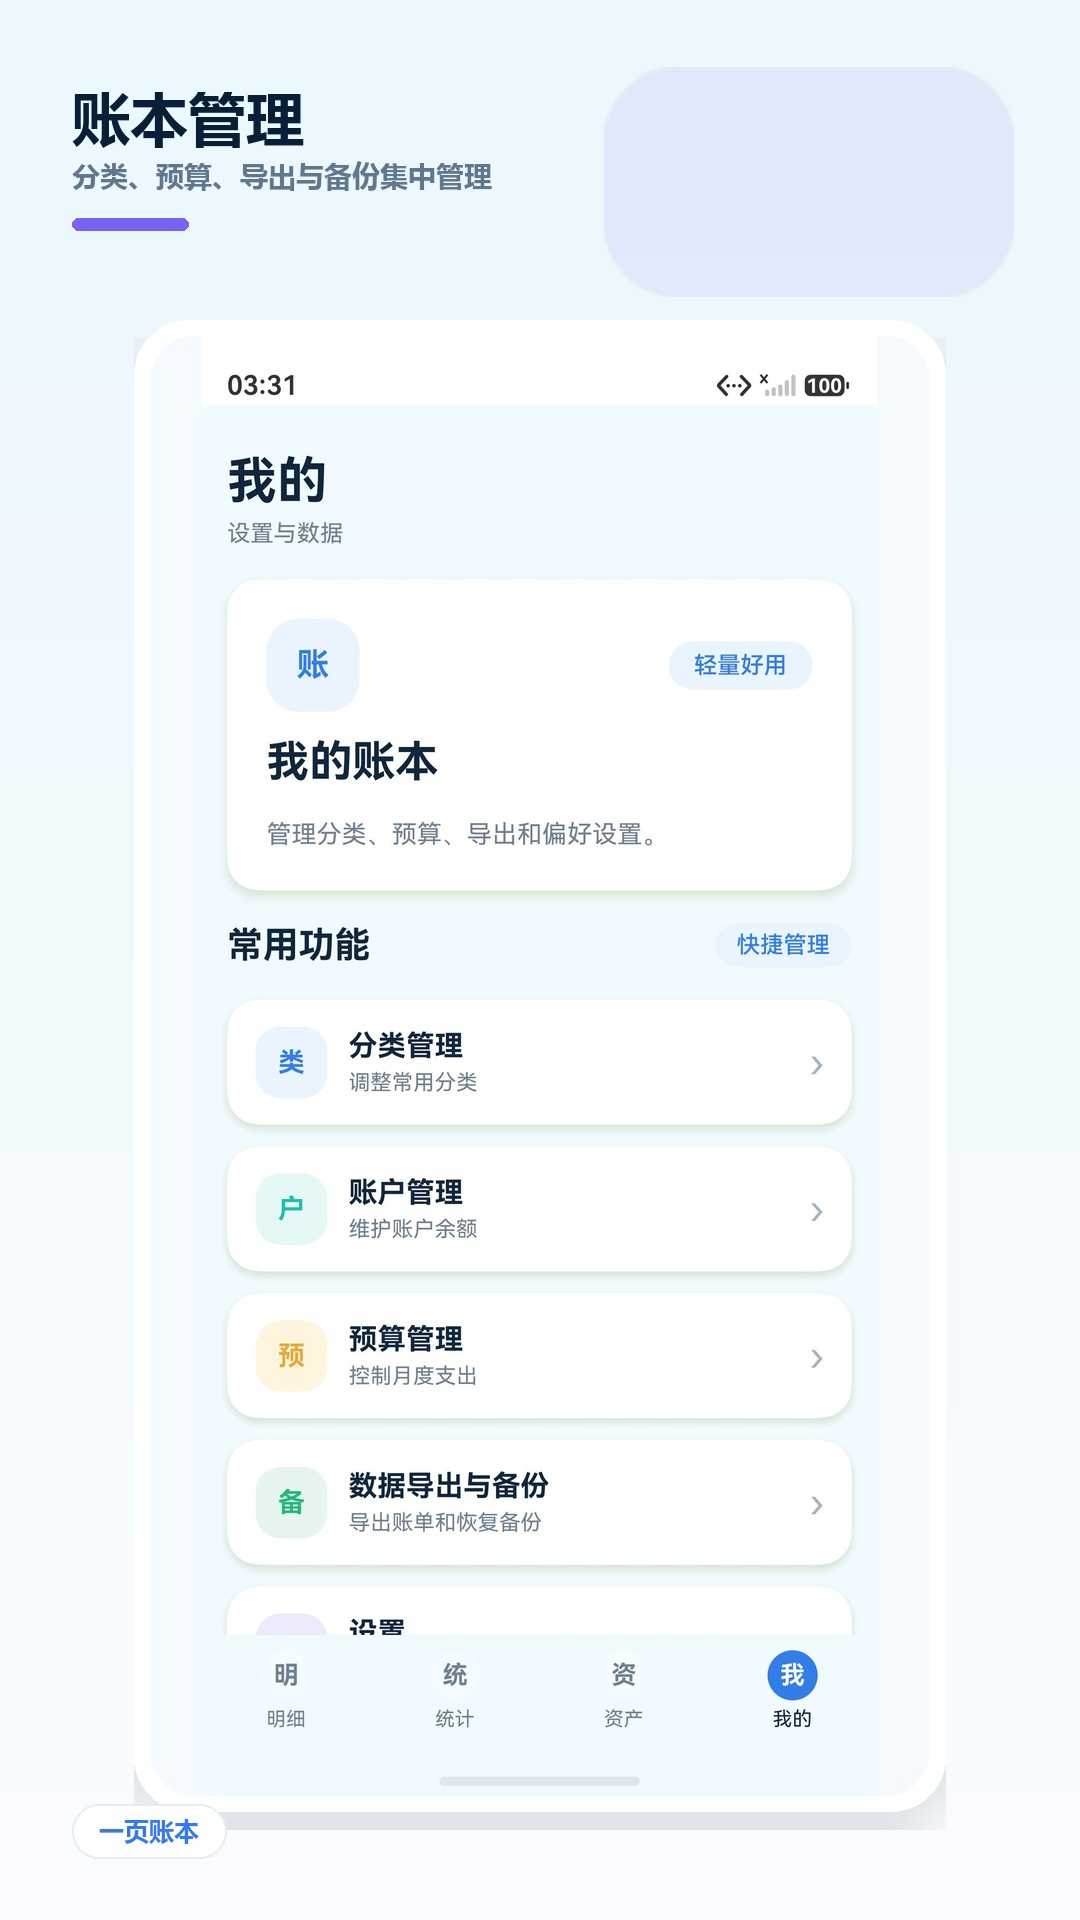
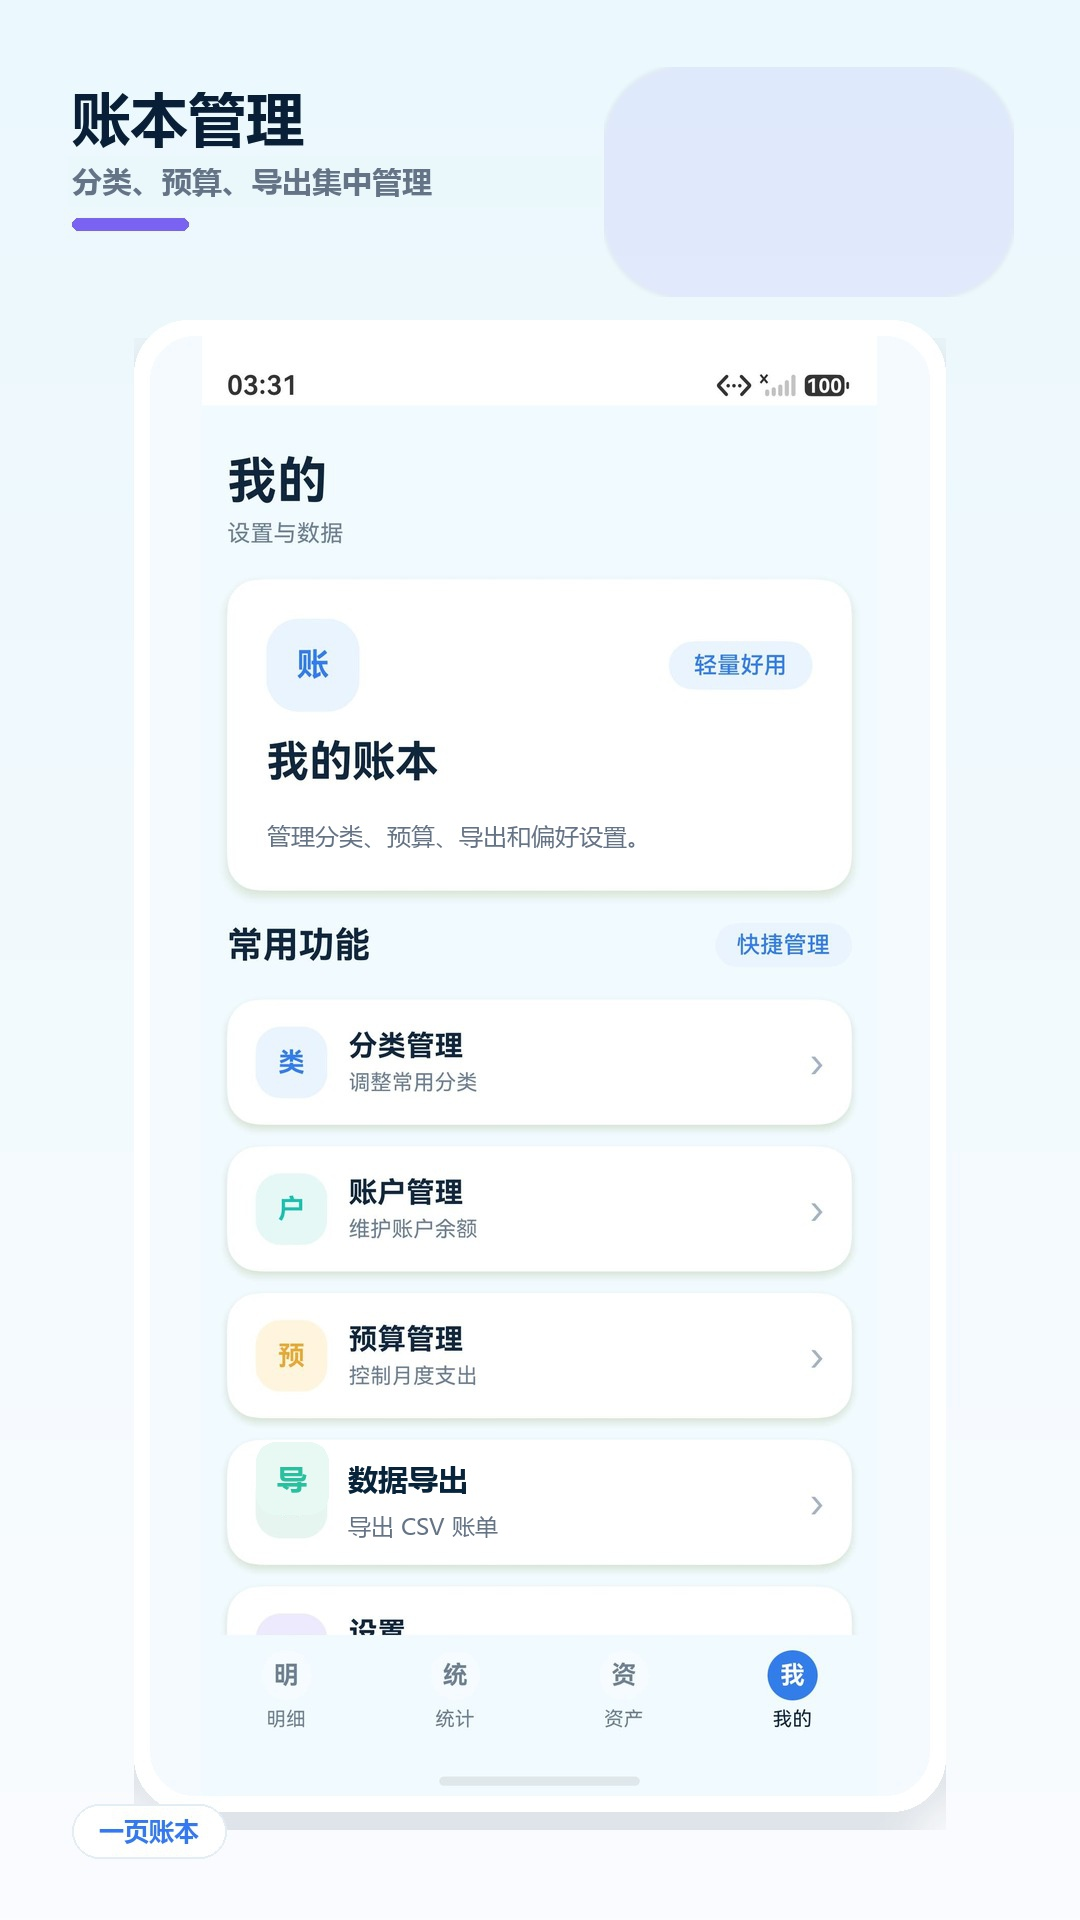
chore: update release manage screenshots

diff --git a/tools/update-release-screenshot-copy.py b/tools/update-release-screenshot-copy.py
@@ -1,0 +1,87 @@
+from pathlib import Path
+from PIL import Image, ImageDraw, ImageFont
+
+
+ROOT = Path(__file__).resolve().parents[1]
+FONT_DIR = Path("C:/Windows/Fonts")
+
+
+def font(name: str, size: int) -> ImageFont.FreeTypeFont:
+    return ImageFont.truetype(str(FONT_DIR / name), size)
+
+
+BOLD = "msyhbd.ttc"
+REGULAR = "msyh.ttc"
+
+
+def draw_text(draw: ImageDraw.ImageDraw, xy, text: str, size: int, color: str, bold: bool = False) -> None:
+    draw.text(xy, text, font=font(BOLD if bold else REGULAR, size), fill=color)
+
+
+def round_rect(draw: ImageDraw.ImageDraw, box, radius: int, fill: str) -> None:
+    left, top, right, bottom = box
+    draw.rectangle((left + radius, top, right - radius, bottom), fill=fill)
+    draw.rectangle((left, top + radius, right, bottom - radius), fill=fill)
+    draw.pieslice((left, top, left + radius * 2, top + radius * 2), 180, 270, fill=fill)
+    draw.pieslice((right - radius * 2, top, right, top + radius * 2), 270, 360, fill=fill)
+    draw.pieslice((left, bottom - radius * 2, left + radius * 2, bottom), 90, 180, fill=fill)
+    draw.pieslice((right - radius * 2, bottom - radius * 2, right, bottom), 0, 90, fill=fill)
+
+
+def patch_phone() -> None:
+    path = ROOT / "release-screenshots" / "phone_manage.jpg"
+    img = Image.open(path).convert("RGB")
+    draw = ImageDraw.Draw(img)
+
+    page_bg = "#EAF8FC"
+    card_bg = "#FFFFFF"
+    icon_bg = "#E8F8F3"
+    title = "#08243A"
+    muted = "#647386"
+    accent = "#2BBF9F"
+
+    draw.rectangle((68, 156, 600, 206), fill=page_bg)
+    draw_text(draw, (72, 160), "分类、预算、导出集中管理", 30, muted, True)
+
+    draw.rectangle((266, 804, 800, 858), fill=card_bg)
+    draw_text(draw, (267, 819), "管理分类、预算、导出和偏好设置。", 24, muted)
+
+    round_rect(draw, (256, 1442, 328, 1514), 20, icon_bg)
+    draw_text(draw, (277, 1458), "导", 30, accent, True)
+    draw.rectangle((346, 1452, 748, 1538), fill=card_bg)
+    draw_text(draw, (348, 1458), "数据导出", 30, title, True)
+    draw_text(draw, (348, 1510), "导出 CSV 账单", 23, muted)
+
+    img.save(path, quality=95)
+
+
+def patch_tablet() -> None:
+    path = ROOT / "release-screenshots" / "tablet_manage.jpg"
+    img = Image.open(path).convert("RGB")
+    draw = ImageDraw.Draw(img)
+
+    page_bg = "#EAF8FC"
+    card_bg = "#FFFFFF"
+    icon_bg = "#E8F8F3"
+    title = "#08243A"
+    muted = "#647386"
+    accent = "#2BBF9F"
+
+    draw.rectangle((88, 168, 650, 220), fill=page_bg)
+    draw_text(draw, (92, 174), "分类、预算、导出集中管理", 30, muted, True)
+
+    draw.rectangle((368, 792, 900, 856), fill=card_bg)
+    draw_text(draw, (369, 817), "管理分类、预算、导出和偏好设置。", 24, muted)
+
+    round_rect(draw, (356, 1434, 428, 1506), 20, icon_bg)
+    draw_text(draw, (377, 1450), "导", 30, accent, True)
+    draw.rectangle((448, 1446, 850, 1532), fill=card_bg)
+    draw_text(draw, (450, 1452), "数据导出", 30, title, True)
+    draw_text(draw, (450, 1504), "导出 CSV 账单", 23, muted)
+
+    img.save(path, quality=95)
+
+
+if __name__ == "__main__":
+    patch_phone()
+    patch_tablet()
